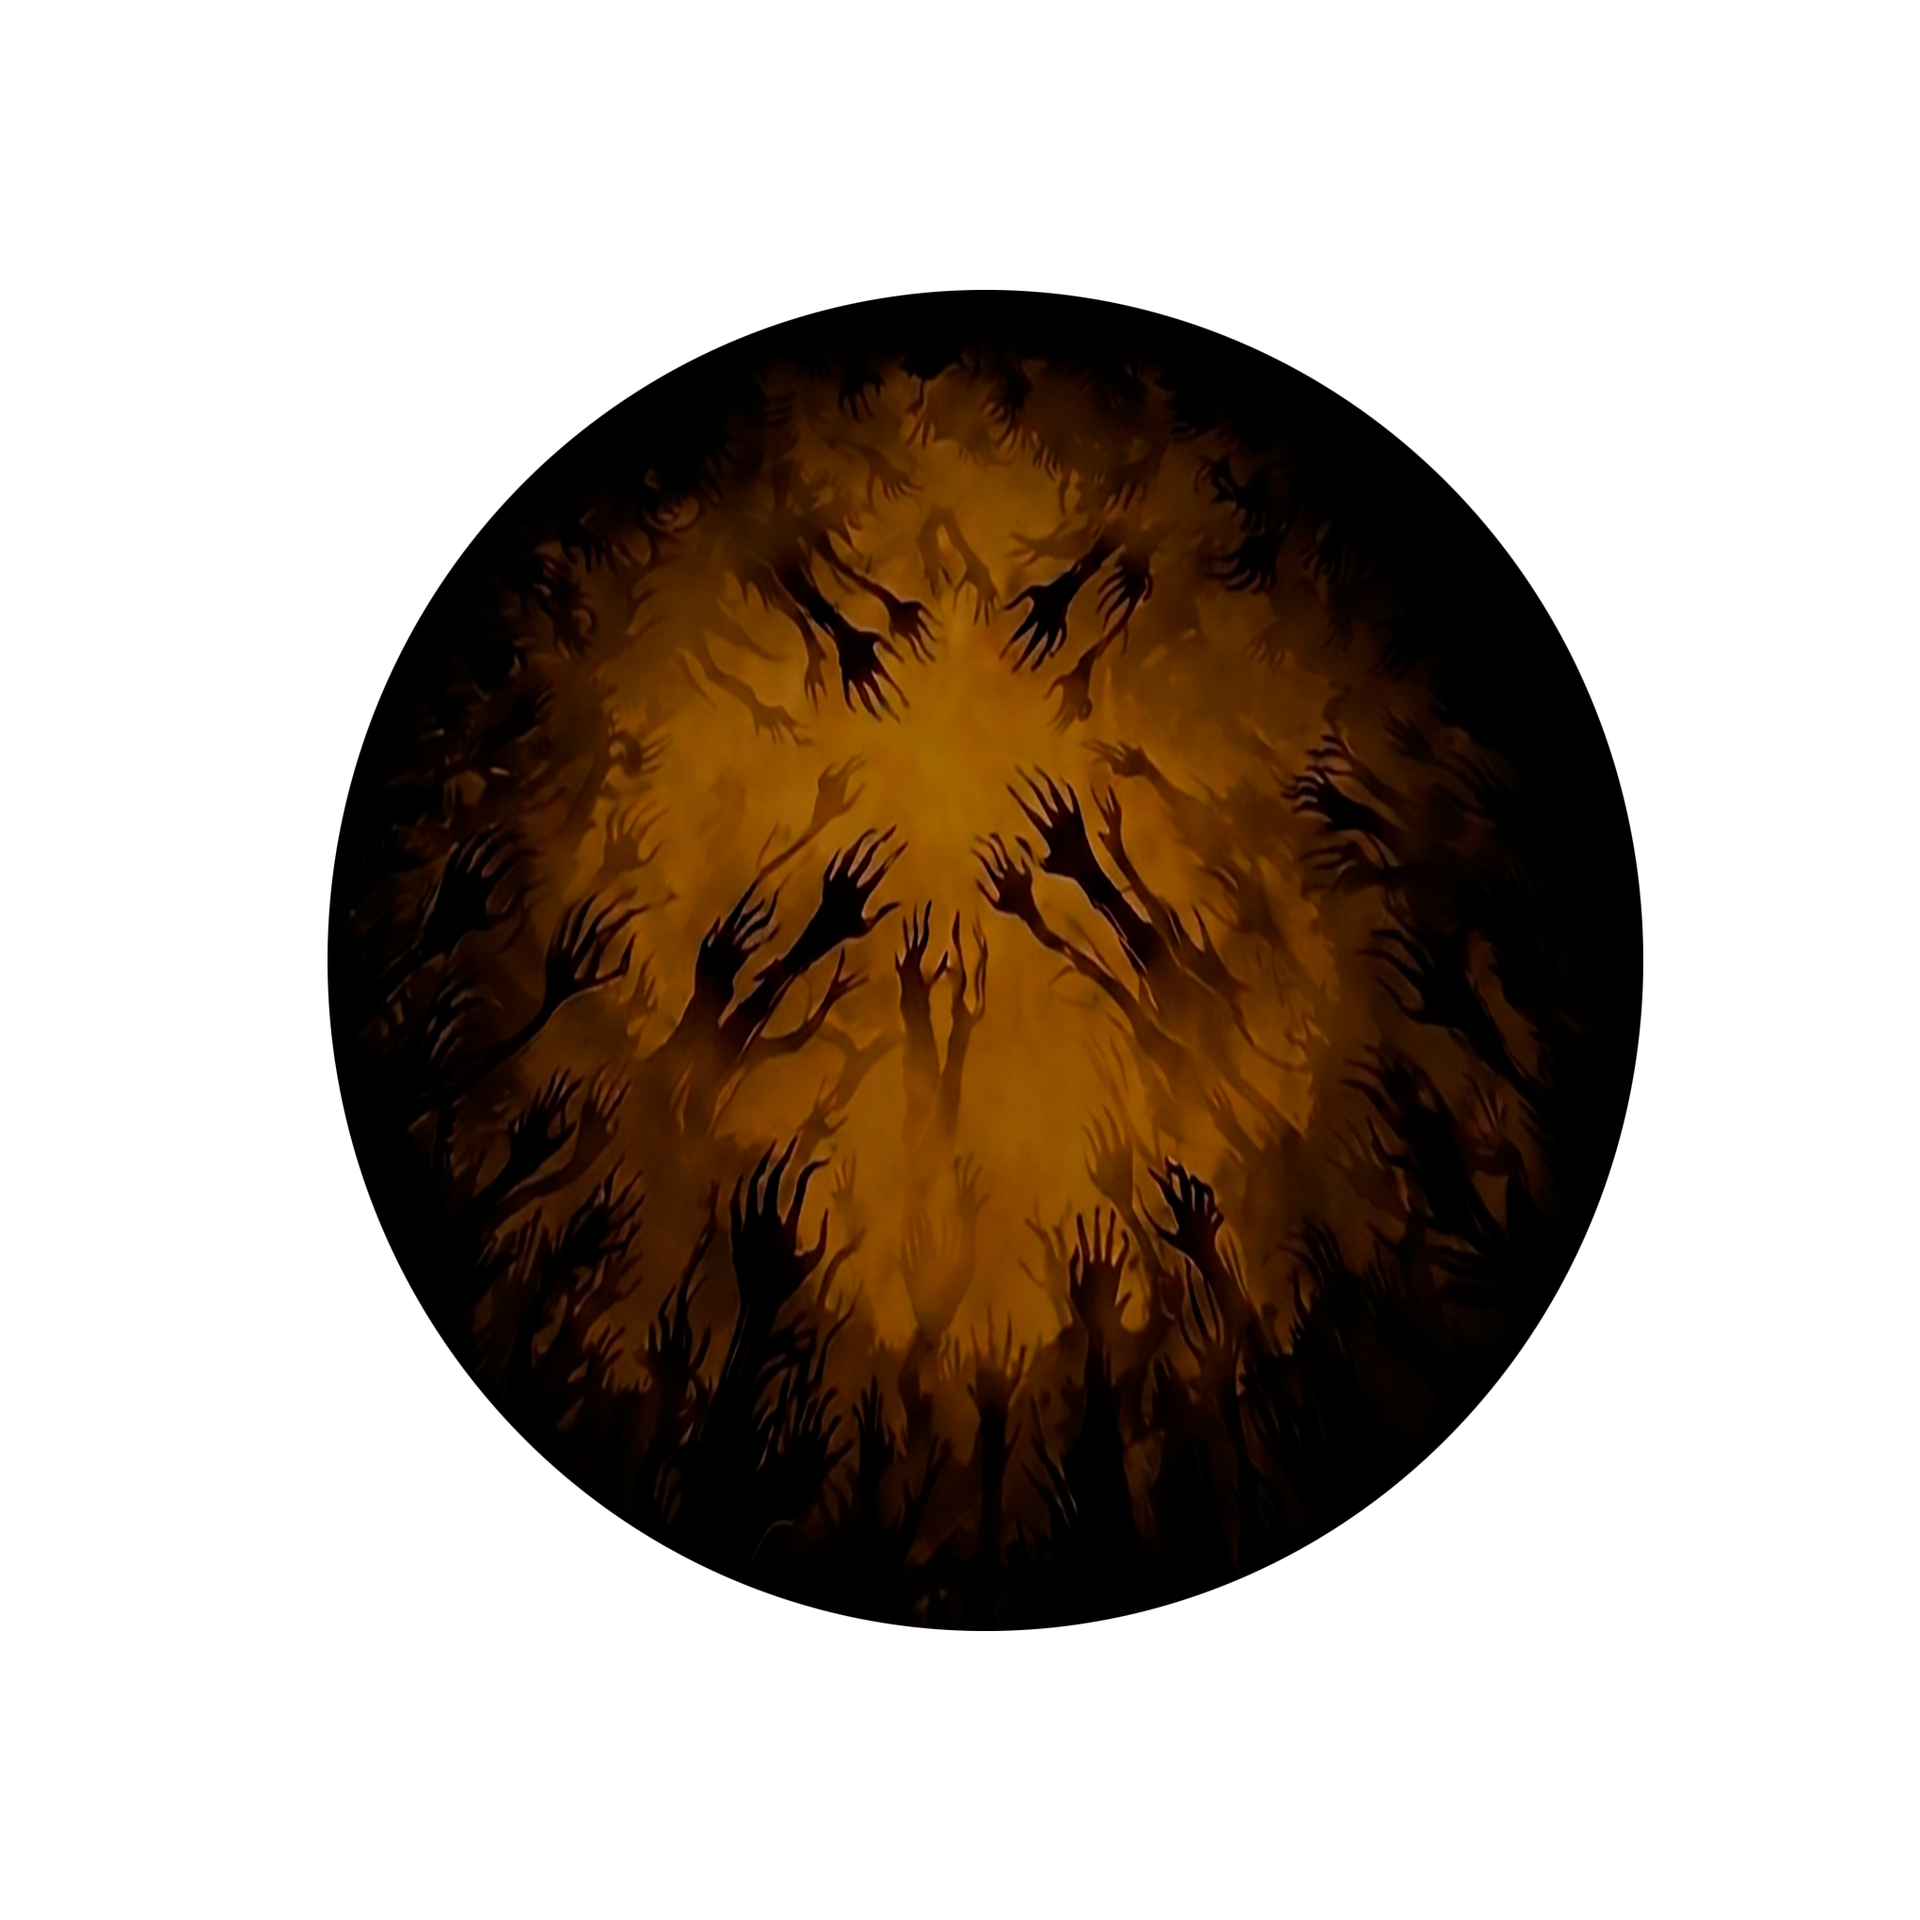
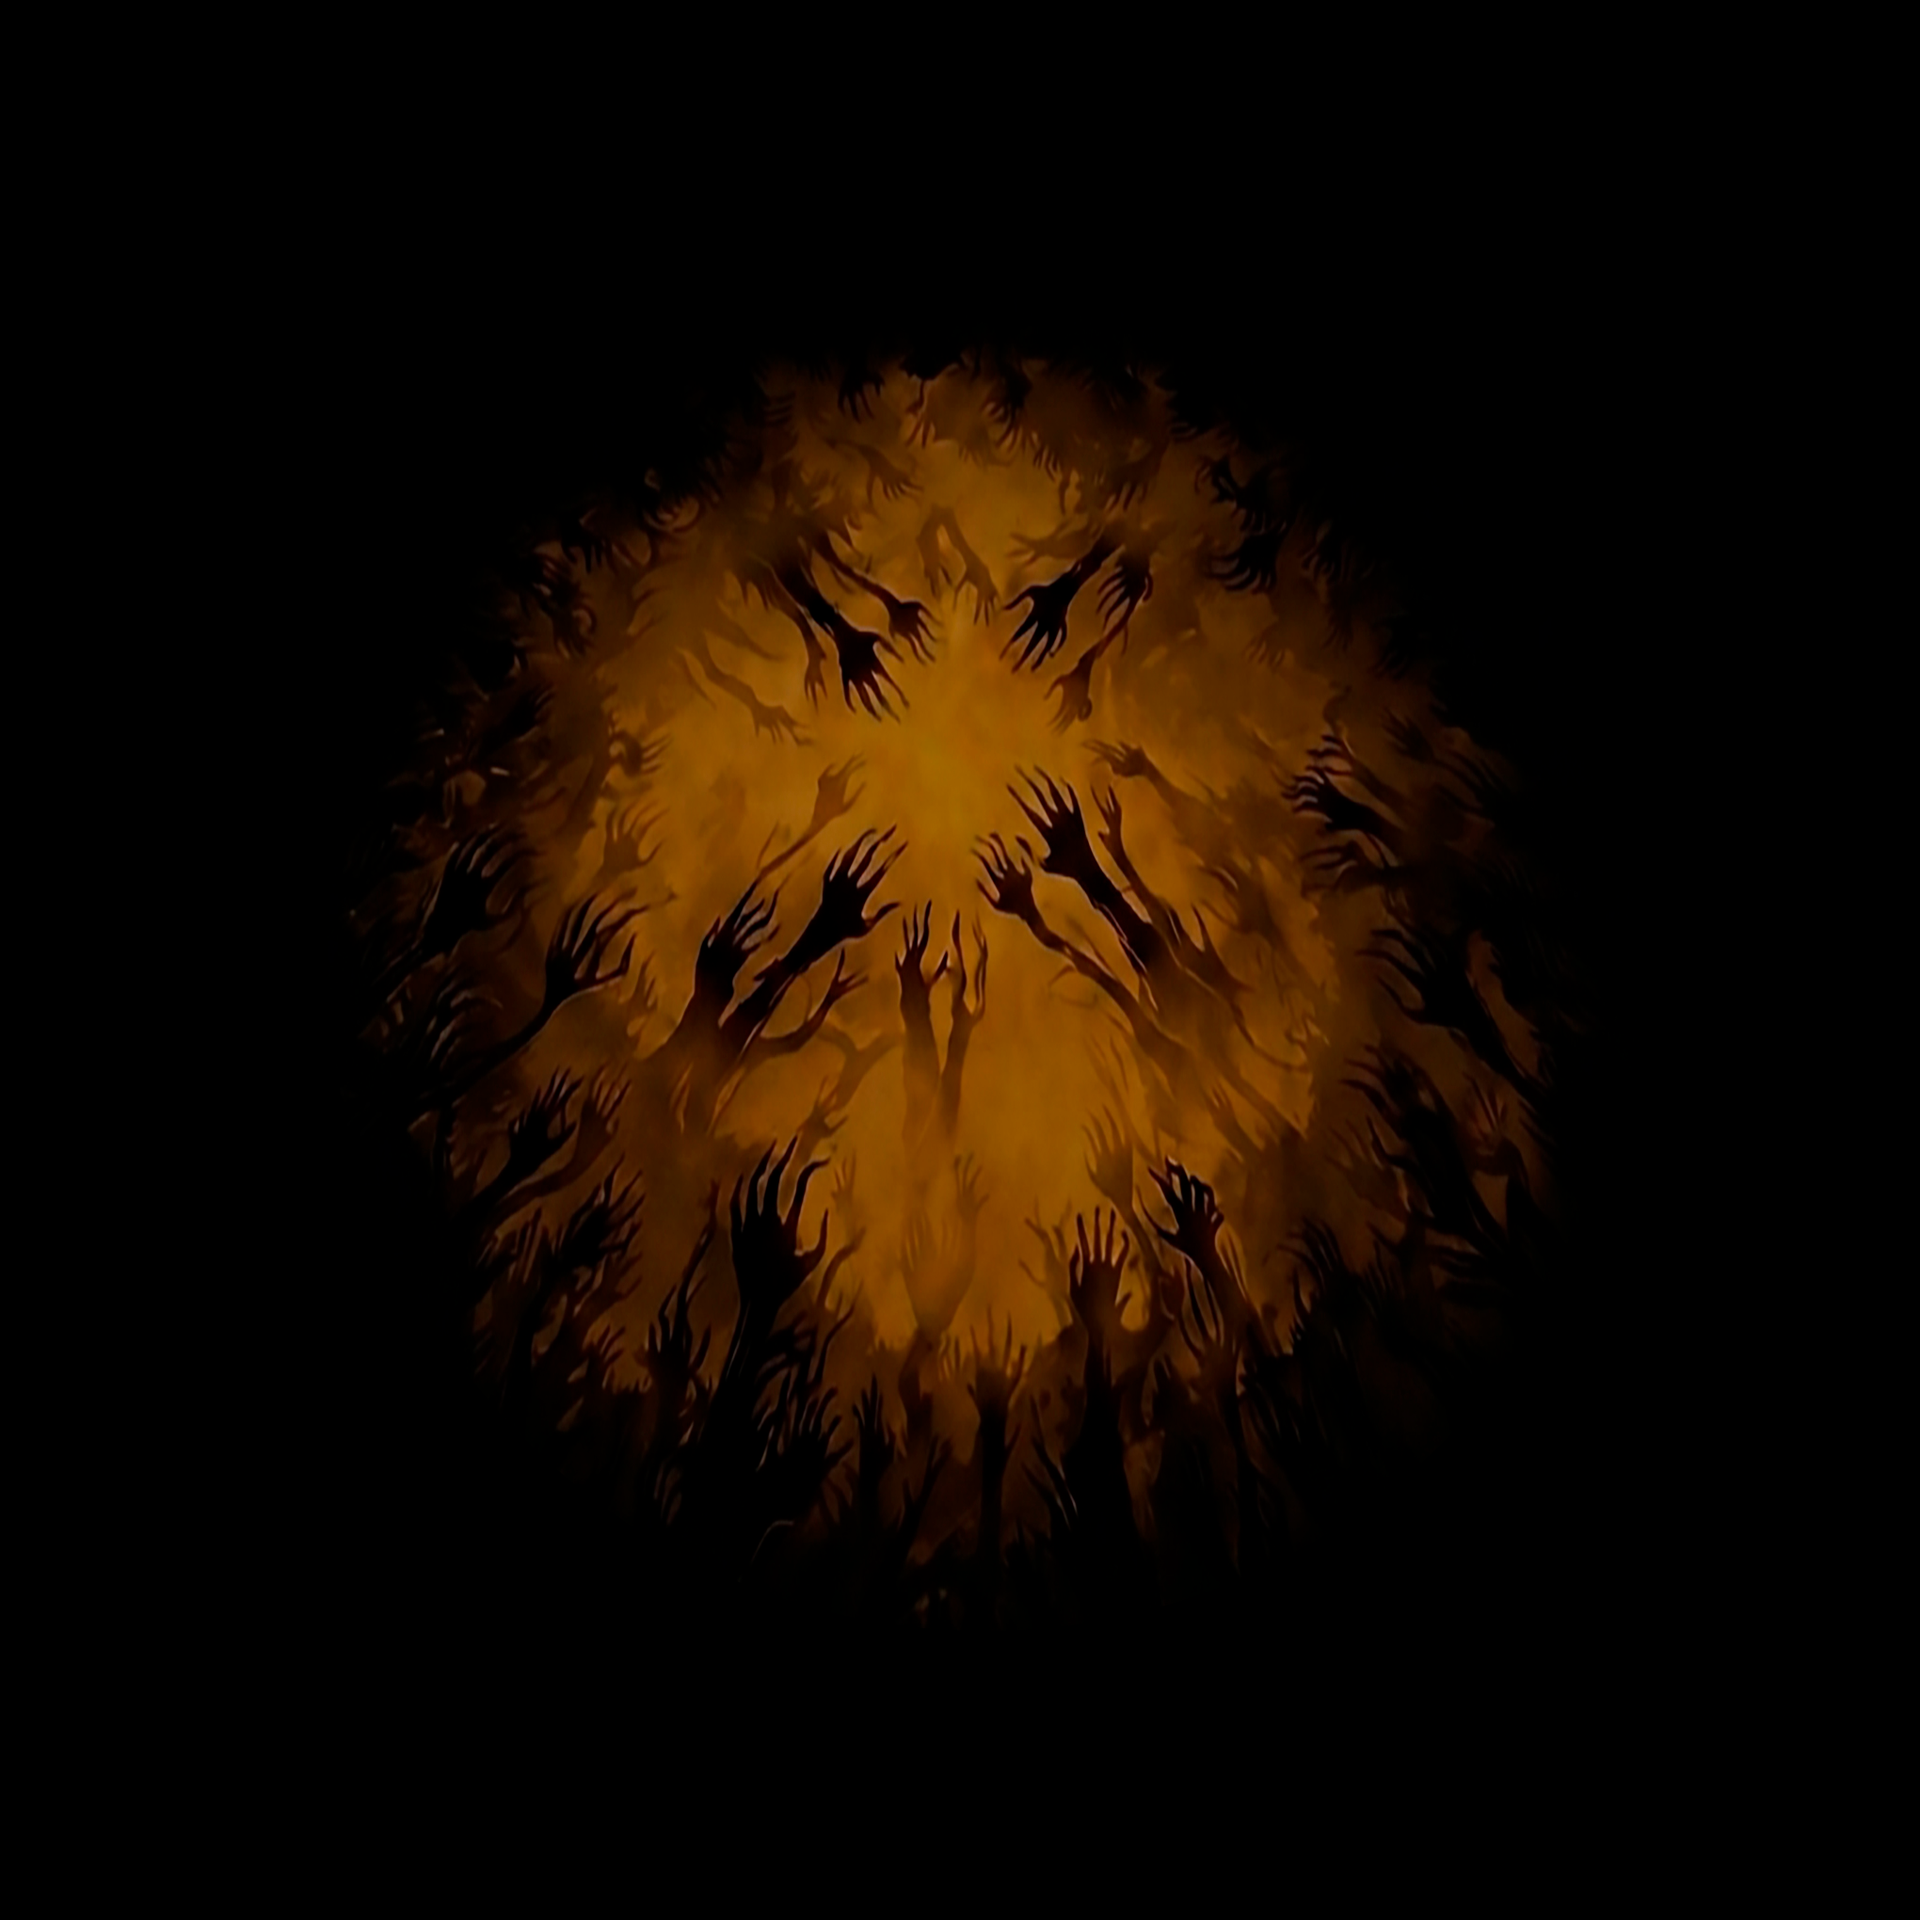
fix(frontend): corrige canvas em branco com StrictMode e vazamento de alpha da textura (issue #75)
O duplo montagem/desmonte do StrictMode descarta o contexto WebGL do
Canvas do react-three-fiber v9 e o remonte não pinta, deixando o
Ambiente de Jogo em branco (reprodução determinística com GPU local).
StrictMode removido de main.tsx; reavaliar ao atualizar a lib.

O mesa_topo.png tinha um anel RGB(0,0,124) com alpha=0 entre o círculo
e os cantos; com material opaco o three ignora o alpha e pintava o
residual azul. Alpha achatado sobre preto e Canvas com gl alpha
desativado: o vazio vem do clear do fundo.

diff --git a/frontend/web/src/main.tsx b/frontend/web/src/main.tsx
@@ -1,14 +1,18 @@
-import { StrictMode } from 'react'
 import { createRoot } from 'react-dom/client'
 import { RouterProvider } from 'react-router-dom'
 import { router } from './app/router'
 import { AuthProvider } from './state/AuthProvider'
 import './styles/global.css'
 
+/**
+ * Sem StrictMode: o duplo montagem/desmonte do StrictMode quebra o Canvas do
+ * react-three-fiber v9 (React 19 + three 0.185) — o desmonte descarta o
+ * contexto WebGL e o remonte não pinta, deixando o Ambiente de Jogo em
+ * branco (diagnóstico da issue #75, reprodução determinística com GPU local).
+ * Reavaliar ao atualizar o react-three-fiber.
+ */
 createRoot(document.getElementById('root')!).render(
-  <StrictMode>
-    <AuthProvider>
-      <RouterProvider router={router} />
-    </AuthProvider>
-  </StrictMode>,
+  <AuthProvider>
+    <RouterProvider router={router} />
+  </AuthProvider>,
 )

diff --git a/frontend/web/src/components/partida/AmbienteDeJogo.tsx b/frontend/web/src/components/partida/AmbienteDeJogo.tsx
@@ -19,6 +19,9 @@ export function AmbienteDeJogo() {
     >
       <Canvas
         camera={{ fov: FOV_CAMERA, position: cameraFixa.posicao }}
+        // Alpha desativado: o canvas é opaco e o vazio vem do clear do fundo.
+        // Com alpha ativo, o alpha da textura vaza para o compositor (issue #75).
+        gl={{ alpha: false }}
         onCreated={({ camera }) => camera.lookAt(0, 0, 0)}
         fallback={
           <div
